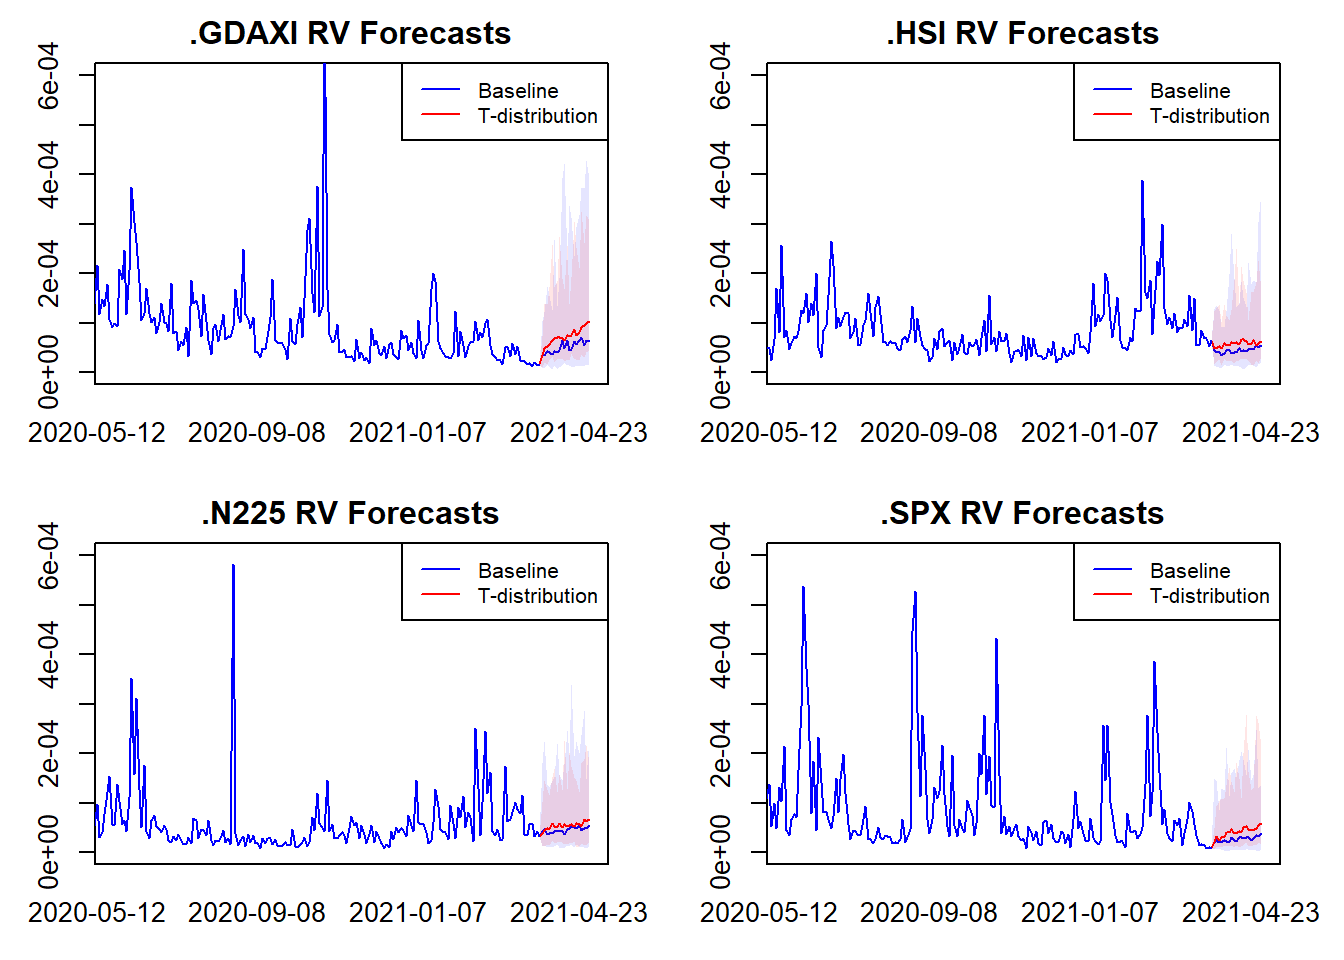
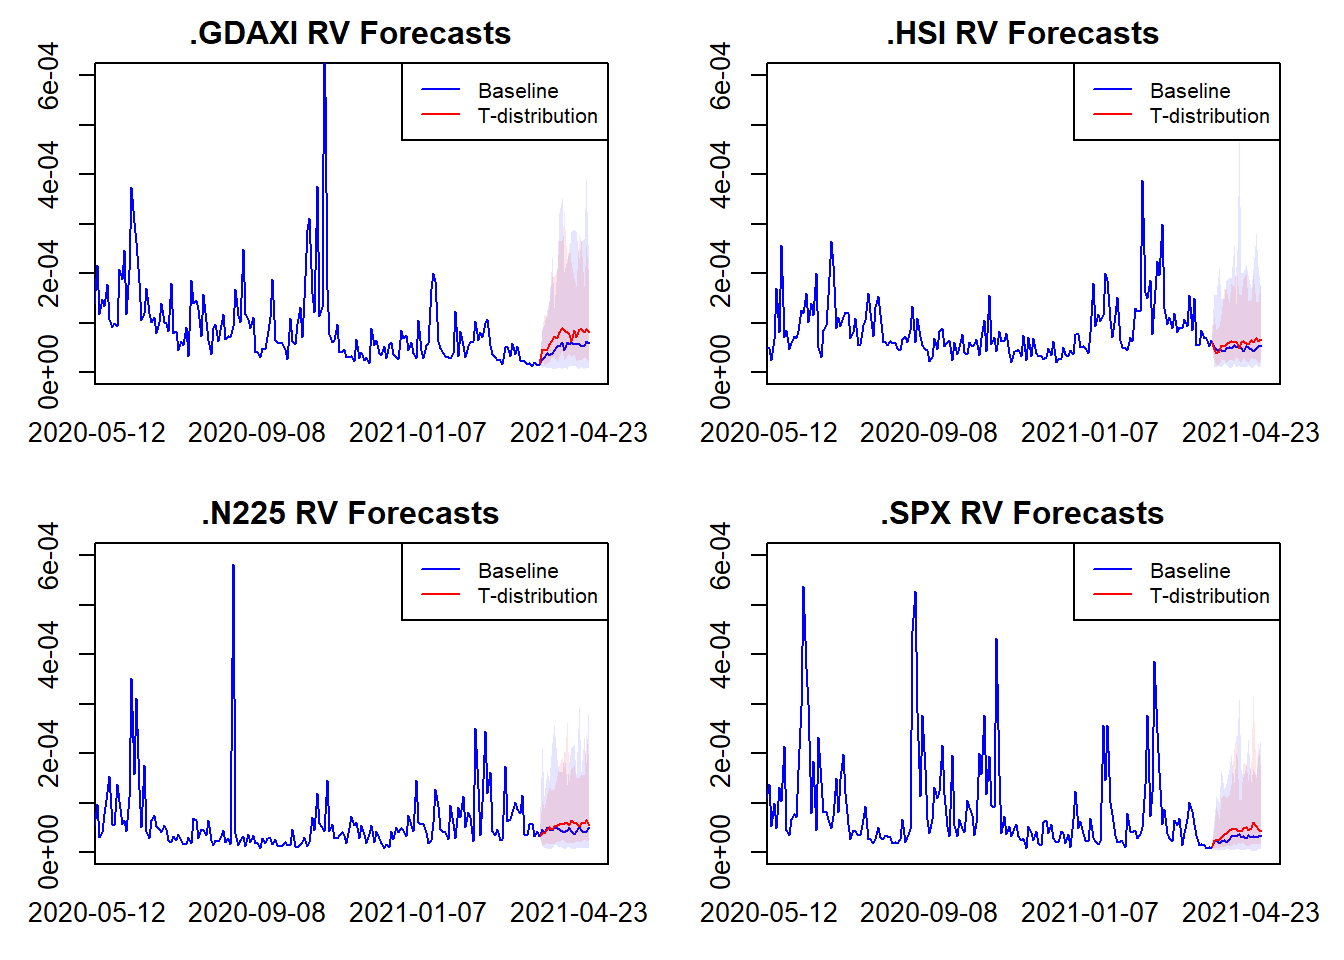
docs - adding SV explanation section

diff --git a/docs/index.html b/docs/index.html
@@ -171,6 +171,10 @@ code span.wa { color: #60a0b0; font-weight: bold; font-style: italic; } /* Warni
   <ul class="collapse">
   <li><a href="#gibbs-sampler-code-for-t-distributed-errors" id="toc-gibbs-sampler-code-for-t-distributed-errors" class="nav-link" data-scroll-target="#gibbs-sampler-code-for-t-distributed-errors">Gibbs Sampler code for t-distributed errors:</a></li>
   </ul></li>
+  <li><a href="#model-extension-stochastic-volatility-with-t-distributed-errors" id="toc-model-extension-stochastic-volatility-with-t-distributed-errors" class="nav-link" data-scroll-target="#model-extension-stochastic-volatility-with-t-distributed-errors">Model Extension: Stochastic Volatility with T Distributed Errors</a>
+  <ul class="collapse">
+  <li><a href="#gibbs-sampling-routine-for-sv-and-t-distributed-errors" id="toc-gibbs-sampling-routine-for-sv-and-t-distributed-errors" class="nav-link" data-scroll-target="#gibbs-sampling-routine-for-sv-and-t-distributed-errors">Gibbs Sampling Routine for SV and T Distributed Errors</a></li>
+  </ul></li>
   </ul></li>
   <li><a href="#empirical-results" id="toc-empirical-results" class="nav-link" data-scroll-target="#empirical-results">Empirical Results</a>
   <ul class="collapse">
@@ -590,16 +594,16 @@ p(\Sigma|Y,X) &amp;= IW_N(\bar{S},\bar{\nu}) \\
 <span id="cb2-32"><a href="#cb2-32" aria-hidden="true" tabindex="-1"></a></span>
 <span id="cb2-33"><a href="#cb2-33" aria-hidden="true" tabindex="-1"></a><span class="fu">round</span>(<span class="fu">apply</span>(res[[<span class="dv">1</span>]],<span class="dv">1</span><span class="sc">:</span><span class="dv">2</span>,mean),<span class="dv">2</span>) <span class="co">#A posterior mean</span></span></code><button title="Copy to Clipboard" class="code-copy-button"><i class="bi"></i></button></pre></div>
 <div class="cell-output cell-output-stdout">
-<pre><code>     [,1] [,2]
-[1,] 0.15 0.03
-[2,] 1.00 0.00
-[3,] 0.00 1.00</code></pre>
+<pre><code>     [,1]  [,2]
+[1,] 0.28 -0.32
+[2,] 1.00  0.00
+[3,] 0.01  0.99</code></pre>
 </div>
 <div class="sourceCode cell-code" id="cb4"><pre class="sourceCode r code-with-copy"><code class="sourceCode r"><span id="cb4-1"><a href="#cb4-1" aria-hidden="true" tabindex="-1"></a><span class="fu">round</span>(<span class="fu">apply</span>(res[[<span class="dv">2</span>]],<span class="dv">1</span><span class="sc">:</span><span class="dv">2</span>,mean),<span class="dv">2</span>) <span class="co">#Sigma posterior mean</span></span></code><button title="Copy to Clipboard" class="code-copy-button"><i class="bi"></i></button></pre></div>
 <div class="cell-output cell-output-stdout">
-<pre><code>     [,1] [,2]
-[1,] 1.03 0.04
-[2,] 0.04 1.01</code></pre>
+<pre><code>      [,1]  [,2]
+[1,]  1.04 -0.01
+[2,] -0.01  1.07</code></pre>
 </div>
 </div>
 <p>As shown above the estimated parameter means closely match the expected values for the data generating process.</p>
@@ -613,7 +617,7 @@ U_t &amp;\sim t_N(0, \Sigma, \nu)
 \end{align}\]</span>
 <p>Following the methodology of <a href="https://onlinelibrary.wiley.com/doi/epdf/10.1002/jae.3950080504?saml_referrer">Geweke 1993</a>, a T-distribution for the error term can be represented by a scale mixture of normal distributions with a scaling term <span class="math inline">\(\lambda\)</span> which is Inverse Gamma 2 distributed.</p>
 <span class="math display">\[\begin{align}
-U|\lambda &amp;\sim MN(0, \Sigma, \lambda I_t) \\
+U|\lambda &amp;\sim MN(0, \Sigma, \lambda I_T) \\
 \lambda &amp;\sim IG2( s_{\lambda}, \nu_{\lambda})
 \end{align}\]</span>
 <p>Under this specification, the kernel of the likelihood function takes the following form:</p>
@@ -725,17 +729,17 @@ p(\lambda|Y,X,A,\Sigma) &amp;\propto L(A,\Sigma,\lambda|Y,X)p(\lambda) \\
 <span id="cb6-44"><a href="#cb6-44" aria-hidden="true" tabindex="-1"></a><span class="co"># A posterior mean</span></span>
 <span id="cb6-45"><a href="#cb6-45" aria-hidden="true" tabindex="-1"></a><span class="fu">round</span>(<span class="fu">apply</span>(tdist_res_rw<span class="sc">$</span>A.posterior.draws, <span class="dv">1</span><span class="sc">:</span><span class="dv">2</span>, mean),<span class="dv">2</span>)</span></code><button title="Copy to Clipboard" class="code-copy-button"><i class="bi"></i></button></pre></div>
 <div class="cell-output cell-output-stdout">
-<pre><code>     [,1] [,2]
-[1,] 0.14 0.03
-[2,] 1.00 0.00
-[3,] 0.00 1.00</code></pre>
+<pre><code>     [,1]  [,2]
+[1,] 0.28 -0.32
+[2,] 1.00  0.00
+[3,] 0.01  0.99</code></pre>
 </div>
 <div class="sourceCode cell-code" id="cb8"><pre class="sourceCode r code-with-copy"><code class="sourceCode r"><span id="cb8-1"><a href="#cb8-1" aria-hidden="true" tabindex="-1"></a><span class="co"># Sigma posterior mean</span></span>
 <span id="cb8-2"><a href="#cb8-2" aria-hidden="true" tabindex="-1"></a><span class="fu">round</span>(<span class="fu">apply</span>(tdist_res_rw<span class="sc">$</span>Sigma.posterior.draws, <span class="dv">1</span><span class="sc">:</span><span class="dv">2</span>, mean),<span class="dv">2</span>)</span></code><button title="Copy to Clipboard" class="code-copy-button"><i class="bi"></i></button></pre></div>
 <div class="cell-output cell-output-stdout">
-<pre><code>     [,1] [,2]
-[1,] 1.02 0.04
-[2,] 0.04 1.00</code></pre>
+<pre><code>      [,1]  [,2]
+[1,]  1.03 -0.01
+[2,] -0.01  1.06</code></pre>
 </div>
 <div class="sourceCode cell-code" id="cb10"><pre class="sourceCode r code-with-copy"><code class="sourceCode r"><span id="cb10-1"><a href="#cb10-1" aria-hidden="true" tabindex="-1"></a><span class="co"># Lambda posterior mean</span></span>
 <span id="cb10-2"><a href="#cb10-2" aria-hidden="true" tabindex="-1"></a><span class="fu">round</span>(<span class="fu">mean</span>(tdist_res_rw<span class="sc">$</span>lambda.posterior.draws),<span class="dv">2</span>)</span></code><button title="Copy to Clipboard" class="code-copy-button"><i class="bi"></i></button></pre></div>
@@ -744,6 +748,62 @@ p(\lambda|Y,X,A,\Sigma) &amp;\propto L(A,\Sigma,\lambda|Y,X)p(\lambda) \\
 </div>
 </div>
 <p>As can be seen, when the extended model estimation routine is applied to the simulated bivariate random walk data, the estimates of <span class="math inline">\(A\)</span> and <span class="math inline">\(\Sigma\)</span> again match the true parameter values closely.</p>
+</section>
+</section>
+<section id="model-extension-stochastic-volatility-with-t-distributed-errors" class="level2">
+<h2 class="anchored" data-anchor-id="model-extension-stochastic-volatility-with-t-distributed-errors">Model Extension: Stochastic Volatility with T Distributed Errors</h2>
+<p>The second extension to the model is a further augmentation to the form of the errors in order to account for stochastic volatility. We can explicitly account for heteroskedasticity in the errors by applying a model specification in which the variance changes over time according to some stochastic process. This extension can be combined with the previous model including t-distributed errors to achieve an even more robust model for errors.</p>
+<p><span class="math display">\[ \begin{align}
+Y &amp;= XA + U \\
+U|\lambda &amp;\sim MN(0, \Sigma, \lambda \text{diag}(\sigma^2)) \\
+\lambda &amp;\sim IG2( s_{\lambda}, \nu_{\lambda}) \\
+\\
+\sigma^2 &amp;= (\exp(h_1), ..., exp(h_T)) \\
+h_T &amp;- \text{follows a stochastic volatility process} \\
+\lambda &amp;- \text{the scale parameter for t errors}
+\end{align}\]</span></p>
+<p>It is convenient for estimation to assume <span class="math inline">\(h_t\)</span> follows a random walk process. That is,</p>
+<p><span class="math display">\[
+\begin{align}
+h_t &amp;= h_{t-1} + \sigma_v v_t \\
+\\
+v_t &amp;\sim \mathcal{N}(0,1) \\
+\sigma^2_v &amp;- \text{estimated parameter of the model}
+\end{align}
+\]</span></p>
+<p>Estimation of <span class="math inline">\(h\)</span> is completed via its own Gibbs Sampling routine. The sampler is applied to a log-linearised form of the data which strips out the conditional mean in order to isolate the error term. The sampling routine involves drawing estimated parameters from a combination of Normal, IG2 as well the log Chi-Square distribution. The log Chi-Square distribution in this case is approximated by a mixture of ten normal distributions and sampled from using the inverse transform method. One pass of the sampler draws a sample of all of the estimated parameters, including <span class="math inline">\(T\times1\)</span> vector <span class="math inline">\(h\)</span>, the exponent of which forms <span class="math inline">\(\sigma^2\)</span>.</p>
+<p>With the overall model specified in this form, the likelihood function is as follows, with the <span class="math inline">\(\sigma^2\)</span> diagonal matrix entering in place of the previous identity matrix <span class="math inline">\(I_T\)</span>.</p>
+<p><span class="math display">\[
+\begin{align}
+L(A,\Sigma,\Lambda|Y,X) &amp;\propto \det(\Sigma)^{-\frac{T}{2}} \det(\lambda \times \text{diag}(\sigma^2))^{-\frac{N}{2}} exp(-\frac{1}{2} tr[\Sigma^{-1} (Y-XA)' (\lambda \times \text{diag}(\sigma^2))^{-1} (Y-XA) ])
+\end{align}
+\]</span></p>
+<p>Following the same derivations as before, we compute the full conditionals for <span class="math inline">\(A\)</span>, <span class="math inline">\(\Sigma\)</span> and <span class="math inline">\(\lambda\)</span> as</p>
+<p><span class="math display">\[
+\begin{align}
+p(A,\Sigma|Y,X) &amp;= MNIW(\bar{A},\bar{V},\bar{S},\bar{\nu}) \\
+\\
+\bar{V} &amp;= (X'(\lambda  \text{diag}(\sigma^2))^{-1}X + \underline{V}^{-1})^{-1} \\
+\bar{A} &amp;= \bar{V}(X'(\lambda  \text{diag}(\sigma^2))^{-1}Y + \underline{V}^{-1}\underline{A}) \\
+\bar{S} &amp;= Y'(\lambda  \text{diag}(\sigma^2))^{-1}Y + \underline{A}'\underline{V}^{-1}\underline{A} + \underline{S} - \bar{A}'\bar{V}^{-1}\bar{A} \\
+\bar{\nu} &amp;= T + \underline{\nu}
+\\
+\\
+p(\lambda|Y,A,\Sigma) &amp;= IG2(\bar{s_{\lambda}},\bar{\nu_{\lambda}}) \\
+\bar{s_{\lambda}} &amp;= tr[\Sigma^{-1}(Y-XA)'\text{diag}(\sigma^2)^{-1}(Y-XA)] + \underline{s_{\lambda}} \\
+\bar{\nu_{\lambda}} &amp;= TN + \underline{\nu_{\lambda}}
+\end{align}
+\]</span></p>
+<section id="gibbs-sampling-routine-for-sv-and-t-distributed-errors" class="level3">
+<h3 class="anchored" data-anchor-id="gibbs-sampling-routine-for-sv-and-t-distributed-errors">Gibbs Sampling Routine for SV and T Distributed Errors</h3>
+<p>Initialize <span class="math inline">\(\lambda^{(0)}\)</span> and <span class="math inline">\(h_t^{(0)}\)</span>.</p>
+<p>At each iteration:</p>
+<ol type="1">
+<li>Draw <span class="math inline">\(\Sigma^{(i)}\)</span> from the <span class="math inline">\(IW(\bar{S},\bar{\nu})\)</span> distribution</li>
+<li>Draw <span class="math inline">\(A^{(i)}\)</span> from the <span class="math inline">\(MN(\bar{A},\Sigma^{(i)}, \bar{V})\)</span> distribution</li>
+<li>Draw <span class="math inline">\(\lambda^{(i)}\)</span> from <span class="math inline">\(IG2(\bar{s_{\lambda}},\bar{\nu_{\lambda}})\)</span></li>
+<li>Draw <span class="math inline">\(h^{(i)}\)</span> from the SV sampling routine described above</li>
+</ol>
 </section>
 </section>
 </section>
@@ -779,10 +839,10 @@ p(\lambda|Y,X,A,\Sigma) &amp;\propto L(A,\Sigma,\lambda|Y,X)p(\lambda) \\
 <span id="cb12-21"><a href="#cb12-21" aria-hidden="true" tabindex="-1"></a><span class="fu">head</span>(<span class="fu">round</span>(<span class="fu">apply</span>(res[[<span class="dv">1</span>]],<span class="dv">1</span><span class="sc">:</span><span class="dv">2</span>,mean),<span class="dv">2</span>)) <span class="co">#A posterior mean</span></span></code><button title="Copy to Clipboard" class="code-copy-button"><i class="bi"></i></button></pre></div>
 <div class="cell-output cell-output-stdout">
 <pre><code>      [,1]  [,2]  [,3]  [,4]  [,5]  [,6]  [,7] [,8]  [,9] [,10]
-[1,] -3.19 -0.10 -0.92 -0.76 -0.66 -2.53 -1.99 0.24 -1.64 -1.14
-[2,]  0.21  0.04  0.04  0.08 -0.02  0.02  0.00 0.04 -0.04  0.02
-[3,]  0.08  0.14  0.05  0.07  0.06  0.04  0.05 0.13  0.05  0.06
-[4,]  0.05  0.05  0.12  0.09  0.10  0.01  0.02 0.06  0.01  0.12
+[1,] -3.18 -0.10 -0.94 -0.76 -0.67 -2.52 -2.00 0.24 -1.63 -1.15
+[2,]  0.22  0.04  0.04  0.08 -0.02  0.02  0.00 0.04 -0.04  0.02
+[3,]  0.08  0.14  0.05  0.08  0.06  0.04  0.05 0.13  0.05  0.07
+[4,]  0.05  0.05  0.12  0.09  0.10  0.01  0.03 0.06  0.01  0.12
 [5,]  0.10  0.04  0.06  0.11  0.03  0.04  0.02 0.04  0.02  0.04
 [6,] -0.02  0.06  0.10  0.05  0.17  0.02  0.04 0.05  0.05  0.12</code></pre>
 </div>
@@ -792,8 +852,8 @@ p(\lambda|Y,X,A,\Sigma) &amp;\propto L(A,\Sigma,\lambda|Y,X)p(\lambda) \\
 [1,] 0.83 0.07 0.08 0.15 0.04 0.06 0.07 0.08 -0.01  0.09
 [2,] 0.07 0.83 0.17 0.19 0.18 0.08 0.08 0.42  0.09  0.19
 [3,] 0.08 0.17 0.51 0.19 0.24 0.05 0.06 0.18  0.05  0.26
-[4,] 0.15 0.19 0.19 0.64 0.18 0.07 0.07 0.19  0.05  0.24
-[5,] 0.04 0.18 0.24 0.18 0.58 0.05 0.07 0.18  0.07  0.28
+[4,] 0.15 0.19 0.19 0.65 0.18 0.07 0.07 0.19  0.05  0.24
+[5,] 0.04 0.18 0.24 0.18 0.58 0.05 0.07 0.18  0.07  0.27
 [6,] 0.06 0.08 0.05 0.07 0.05 0.55 0.09 0.08  0.12  0.04</code></pre>
 </div>
 </div>
@@ -806,26 +866,26 @@ p(\lambda|Y,X,A,\Sigma) &amp;\propto L(A,\Sigma,\lambda|Y,X)p(\lambda) \\
 <span id="cb16-3"><a href="#cb16-3" aria-hidden="true" tabindex="-1"></a><span class="fu">head</span>(<span class="fu">round</span>(<span class="fu">apply</span>(tres<span class="sc">$</span>A.posterior.draws, <span class="dv">1</span><span class="sc">:</span><span class="dv">2</span>, mean),<span class="dv">2</span>))</span></code><button title="Copy to Clipboard" class="code-copy-button"><i class="bi"></i></button></pre></div>
 <div class="cell-output cell-output-stdout">
 <pre><code>      [,1]  [,2]  [,3]  [,4]  [,5]  [,6]  [,7]  [,8]  [,9] [,10]
-[1,] -4.61 -1.32 -1.96 -1.99 -1.64 -3.95 -3.34 -0.98 -2.98 -2.02
-[2,]  0.12  0.04  0.04  0.06  0.01  0.02  0.01  0.04 -0.01  0.03
-[3,]  0.06  0.10  0.06  0.07  0.06  0.04  0.05  0.10  0.05  0.06
+[1,] -4.61 -1.28 -2.01 -2.04 -1.62 -3.96 -3.36 -0.94 -3.00 -2.06
+[2,]  0.11  0.04  0.04  0.06  0.01  0.02  0.01  0.04 -0.02  0.03
+[3,]  0.06  0.10  0.06  0.06  0.06  0.04  0.05  0.10  0.05  0.06
 [4,]  0.04  0.05  0.08  0.07  0.08  0.02  0.03  0.06  0.02  0.08
-[5,]  0.07  0.06  0.06  0.07  0.04  0.03  0.03  0.06  0.02  0.05
-[6,]  0.02  0.06  0.08  0.05  0.10  0.03  0.04  0.06  0.04  0.08</code></pre>
+[5,]  0.07  0.05  0.06  0.07  0.05  0.03  0.03  0.05  0.02  0.05
+[6,]  0.01  0.06  0.08  0.06  0.10  0.03  0.04  0.06  0.04  0.08</code></pre>
 </div>
 <div class="sourceCode cell-code" id="cb18"><pre class="sourceCode r code-with-copy"><code class="sourceCode r"><span id="cb18-1"><a href="#cb18-1" aria-hidden="true" tabindex="-1"></a><span class="fu">head</span>(<span class="fu">round</span>(<span class="fu">apply</span>(tres<span class="sc">$</span>Sigma.posterior.draws, <span class="dv">1</span><span class="sc">:</span><span class="dv">2</span>, mean),<span class="dv">2</span>))</span></code><button title="Copy to Clipboard" class="code-copy-button"><i class="bi"></i></button></pre></div>
 <div class="cell-output cell-output-stdout">
 <pre><code>     [,1] [,2] [,3] [,4] [,5] [,6] [,7] [,8] [,9] [,10]
-[1,] 0.50 0.04 0.04 0.06 0.02 0.03 0.03 0.04 0.00  0.04
-[2,] 0.04 0.52 0.07 0.07 0.07 0.04 0.04 0.14 0.04  0.07
+[1,] 0.49 0.03 0.04 0.06 0.02 0.02 0.03 0.04 0.00  0.04
+[2,] 0.03 0.52 0.07 0.07 0.07 0.04 0.04 0.14 0.05  0.07
 [3,] 0.04 0.07 0.32 0.07 0.09 0.02 0.03 0.07 0.02  0.09
 [4,] 0.06 0.07 0.07 0.40 0.07 0.03 0.03 0.07 0.02  0.08
-[5,] 0.02 0.07 0.09 0.07 0.36 0.03 0.04 0.07 0.04  0.10
-[6,] 0.03 0.04 0.02 0.03 0.03 0.33 0.04 0.04 0.05  0.02</code></pre>
+[5,] 0.02 0.07 0.09 0.07 0.35 0.02 0.03 0.07 0.03  0.10
+[6,] 0.02 0.04 0.02 0.03 0.02 0.33 0.04 0.04 0.05  0.02</code></pre>
 </div>
 <div class="sourceCode cell-code" id="cb20"><pre class="sourceCode r code-with-copy"><code class="sourceCode r"><span id="cb20-1"><a href="#cb20-1" aria-hidden="true" tabindex="-1"></a><span class="fu">round</span>(<span class="fu">mean</span>(tres<span class="sc">$</span>lambda.posterior.draws),<span class="dv">2</span>)</span></code><button title="Copy to Clipboard" class="code-copy-button"><i class="bi"></i></button></pre></div>
 <div class="cell-output cell-output-stdout">
-<pre><code>[1] 3.96</code></pre>
+<pre><code>[1] 3.97</code></pre>
 </div>
 </div>
 <p>We can then compute forecasts for both models by sampling from the predictive densities. For each draw of <span class="math inline">\(A\)</span> and <span class="math inline">\(\Sigma\)</span>, we sample h times from the predictive density in order to compute a forecast horizon of h periods. Each of the h draws are computed as 1 period ahead forecasts. Where the predictive density requires data which has not yet been observed this is replaced by the preceding forecasts computed within the same iteration.</p>
